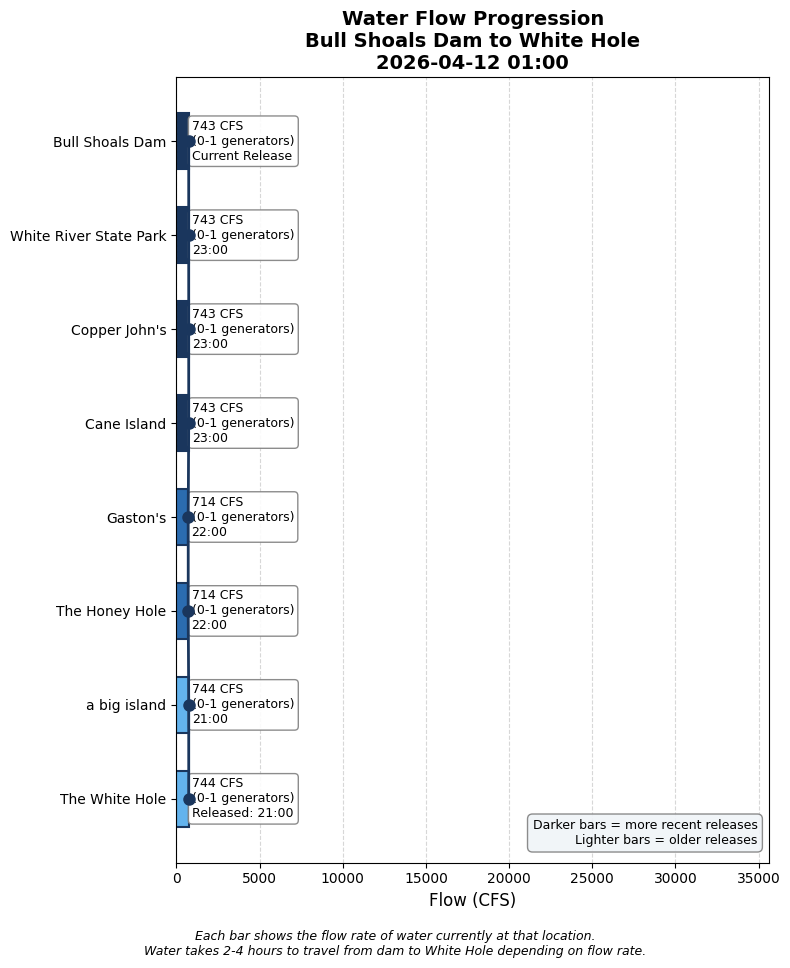
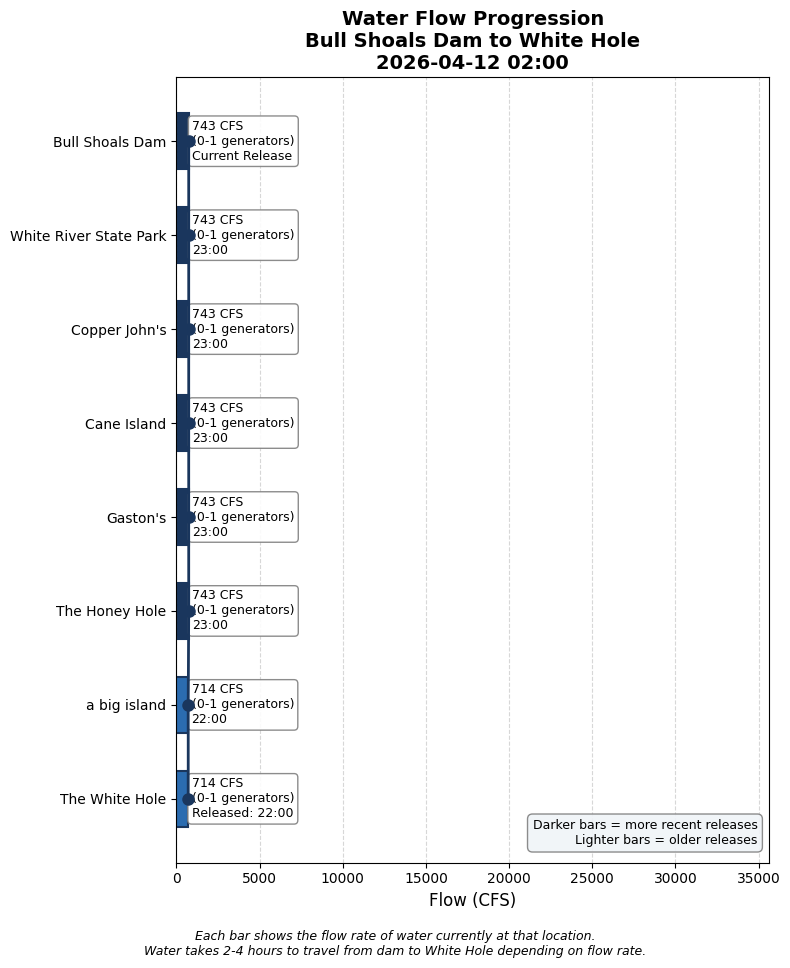
Update water conditions 2026-04-12 02:00

Changed region(s): [[0.2127, 0.4959, 0.3038, 0.8678]]

diff --git a/white_hole_conditions.html b/white_hole_conditions.html
@@ -3,7 +3,7 @@
 <head>
     <meta charset="UTF-8">
     <meta name="viewport" content="width=device-width, initial-scale=1.0">
-    <title>White Hole Conditions - 2026-04-12 01:00</title>
+    <title>White Hole Conditions - 2026-04-12 02:00</title>
     <style>
         body {
             font-family: -apple-system, BlinkMacSystemFont, 'Segoe UI', Roboto, sans-serif;
@@ -148,7 +148,7 @@
 </head>
 <body>
     <h1>White Hole Current Conditions</h1>
-    <p class="subtitle">Sunday, April 12, 2026 at 01:00 AM</p>
+    <p class="subtitle">Sunday, April 12, 2026 at 02:00 AM</p>
 
     <!-- HEADLINE BANNER -->
     <div class="headline-banner">
@@ -160,7 +160,7 @@
     <!-- CURRENT CONDITIONS -->
     <div class="current-conditions">
         <h3>Current Conditions at White Hole</h3>
-        <div class="flow-display">744 CFS</div>
+        <div class="flow-display">714 CFS</div>
         <div class="generator-display">Equivalent to 0-1 generators</div>
         <div class="condition-pills">
             <span class="pill wading">Excellent Wading</span>
@@ -189,6 +189,14 @@
                 <tr><td colspan="3" style="padding: 8px 10px; font-size: 0.8em; font-weight: bold; color: #6b46c1; text-transform: uppercase; letter-spacing: 0.05em; background-color: #f3e8ff;">Scheduled (SWPA forecast)</td></tr>
                 
                     <tr style="background-color: #faf5ff; ">
+                        <td style="padding: 10px; font-weight: bold;">5 AM</td>
+                        <td style="padding: 10px;">723 CFS<br><small style="color: #666;">(0-1 generators: 473 generation + 250 min flow)</small></td>
+                        <td style="padding: 10px;">~8:44 AM
+                            <span style="display: inline-block; margin-left: 6px; padding: 2px 8px; border-radius: 12px; font-size: 0.8em; background-color: #d1fae5; color: #065f46;">Excellent Wading</span>
+                        </td>
+                    </tr>
+                
+                    <tr style="background-color: #faf5ff; ">
                         <td style="padding: 10px; font-weight: bold;">4 AM</td>
                         <td style="padding: 10px;">723 CFS<br><small style="color: #666;">(0-1 generators: 473 generation + 250 min flow)</small></td>
                         <td style="padding: 10px;">~7:44 AM
@@ -212,14 +220,6 @@
                         </td>
                     </tr>
                 
-                    <tr style="background-color: #faf5ff; ">
-                        <td style="padding: 10px; font-weight: bold;">1 AM</td>
-                        <td style="padding: 10px;">723 CFS<br><small style="color: #666;">(0-1 generators: 473 generation + 250 min flow)</small></td>
-                        <td style="padding: 10px;">~4:44 AM
-                            <span style="display: inline-block; margin-left: 6px; padding: 2px 8px; border-radius: 12px; font-size: 0.8em; background-color: #d1fae5; color: #065f46;">Excellent Wading</span>
-                        </td>
-                    </tr>
-                
             
                     
                 <tr><td colspan="3" style="padding: 8px 10px; font-size: 0.8em; font-weight: bold; color: #2b6cb0; text-transform: uppercase; letter-spacing: 0.05em; background-color: #ebf8ff;">Actual (dam readings)</td></tr>
@@ -227,18 +227,12 @@
                     <tr style="background-color: #ebf8ff;">
                         <td style="padding: 10px; font-weight: bold;">11:00 PM</td>
                         <td style="padding: 10px;">743 CFS<br><small style="color: #666;">(0-1 generators)</small></td>
-                        <td style="padding: 10px;"><span style="color: #2b6cb0;">→ Arrives ~2:44 AM (in 103 min)</span></td>
-                    </tr>
-                
-                    <tr style="background-color: #ebf8ff;">
-                        <td style="padding: 10px; font-weight: bold;">10:00 PM</td>
-                        <td style="padding: 10px;">714 CFS<br><small style="color: #666;">(0-1 generators)</small></td>
-                        <td style="padding: 10px;"><span style="color: #2b6cb0;">→ Arrives ~1:44 AM (in 43 min)</span></td>
+                        <td style="padding: 10px;"><span style="color: #2b6cb0;">→ Arrives ~2:44 AM (in 43 min)</span></td>
                     </tr>
                 
                     <tr style="background-color: #e6fffa;">
-                        <td style="padding: 10px; font-weight: bold;">9:00 PM</td>
-                        <td style="padding: 10px;">744 CFS<br><small style="color: #666;">(0-1 generators)</small></td>
+                        <td style="padding: 10px; font-weight: bold;">10:00 PM</td>
+                        <td style="padding: 10px;">714 CFS<br><small style="color: #666;">(0-1 generators)</small></td>
                         <td style="padding: 10px;"><span style="color: #319795; font-weight: bold;">← AT WHITE HOLE NOW</span></td>
                     </tr>
                 
@@ -276,7 +270,7 @@
             <ul>
                 <li>Latest dam reading: 743 CFS at 2026-04-11 23:00</li>
                 <li>Travel time to White Hole: 3.7 hours at current flow</li>
-                <li>White Hole conditions based on dam reading from: 2026-04-11 21:00</li>
+                <li>White Hole conditions based on dam reading from: 2026-04-11 22:00</li>
             </ul>
         </div>
     </details>
@@ -361,13 +355,6 @@
                     <td style="padding: 8px; text-align: right;">3.7</td>
                 </tr>
                 
-                <tr style="border-bottom: 1px solid #eee;">
-                    <td style="padding: 8px;">2026-04-11 14:00</td>
-                    <td style="padding: 8px; text-align: right;">653</td>
-                    <td style="padding: 8px; text-align: right;">0.2</td>
-                    <td style="padding: 8px; text-align: right;">3.7</td>
-                </tr>
-                
                     </tbody>
                 </table>
             </div>
@@ -375,7 +362,7 @@
         
 
     <div class="timestamp">
-        Data retrieved and processed on 2026-04-12 01:00:08
+        Data retrieved and processed on 2026-04-12 02:00:08
     </div>
 </body>
 </html>
